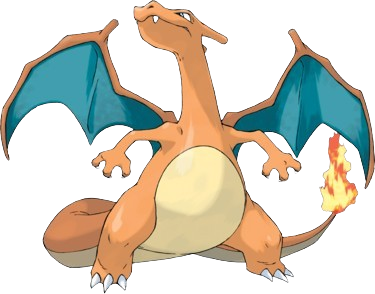
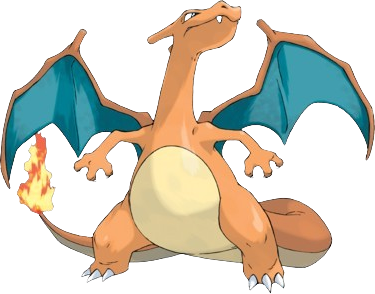
affichage aleatoire du pokemon adverse

diff --git a/app/BackEnd/Scene/Scene_Back.py b/app/BackEnd/Scene/Scene_Back.py
@@ -1,5 +1,7 @@
 import pygame
 import sys
+import os
+import random
 
 # Initialisation de Pygame
 pygame.init()
@@ -35,11 +37,26 @@ class Pokemon(pygame.sprite.Sprite):
 # Taille réduite du Pokémon
 pokemon_largeur, pokemon_hauteur = 225, 225
 
-# Position initiale du Pokémon
-position_initiale = (largeur // 2 + 145, hauteur // 2 - 200)
+# Dossier des Pokémon
+dossier_pokemon = 'app/assets/assets_pokemon'
 
-# Initialiser le Pokémon à la position initiale
-pokemon = Pokemon('app/assets/assets_pokemon/bulbizarre.png', *position_initiale, pokemon_largeur, pokemon_hauteur)
+# Liste de tous les fichiers dans le dossier des Pokémon
+fichiers_pokemon = [f for f in os.listdir(dossier_pokemon) if os.path.isfile(os.path.join(dossier_pokemon, f.lower()))]
+
+# Choisir un Pokémon au hasard parmi les fichiers
+fichier_pokemon1 = random.choice(fichiers_pokemon)
+
+# Position initiale du Pokémon 1
+position_initiale_pokemon1 = (largeur // 2 + 145, hauteur // 2 - 200)
+
+# Initialiser le Pokémon 1 avec l'image choisie
+pokemon1 = Pokemon(os.path.join(dossier_pokemon, fichier_pokemon1.lower()), *position_initiale_pokemon1, pokemon_largeur, pokemon_hauteur)
+
+# Position initiale du Pokémon 2
+position_initiale_pokemon2 = (largeur // 2 - 250, hauteur // 2 + 100)
+
+# Initialiser le Pokémon 2 avec une image fixe (par exemple, carapuce.png)
+pokemon2 = Pokemon('app/assets/assets_pokemon_inverse/carapuce.png', *position_initiale_pokemon2, pokemon_largeur, pokemon_hauteur)
 
 # Boucle principale
 while True:
@@ -51,8 +68,9 @@ while True:
     # Dessiner l'image de fond
     ecran.blit(fond, (0, 0))
 
-    # Dessiner le Pokémon
-    pokemon.afficher()
+    # Dessiner les Pokémon
+    pokemon1.afficher()
+    pokemon2.afficher()
 
     # Mise à jour de l'affichage
     pygame.display.flip()
